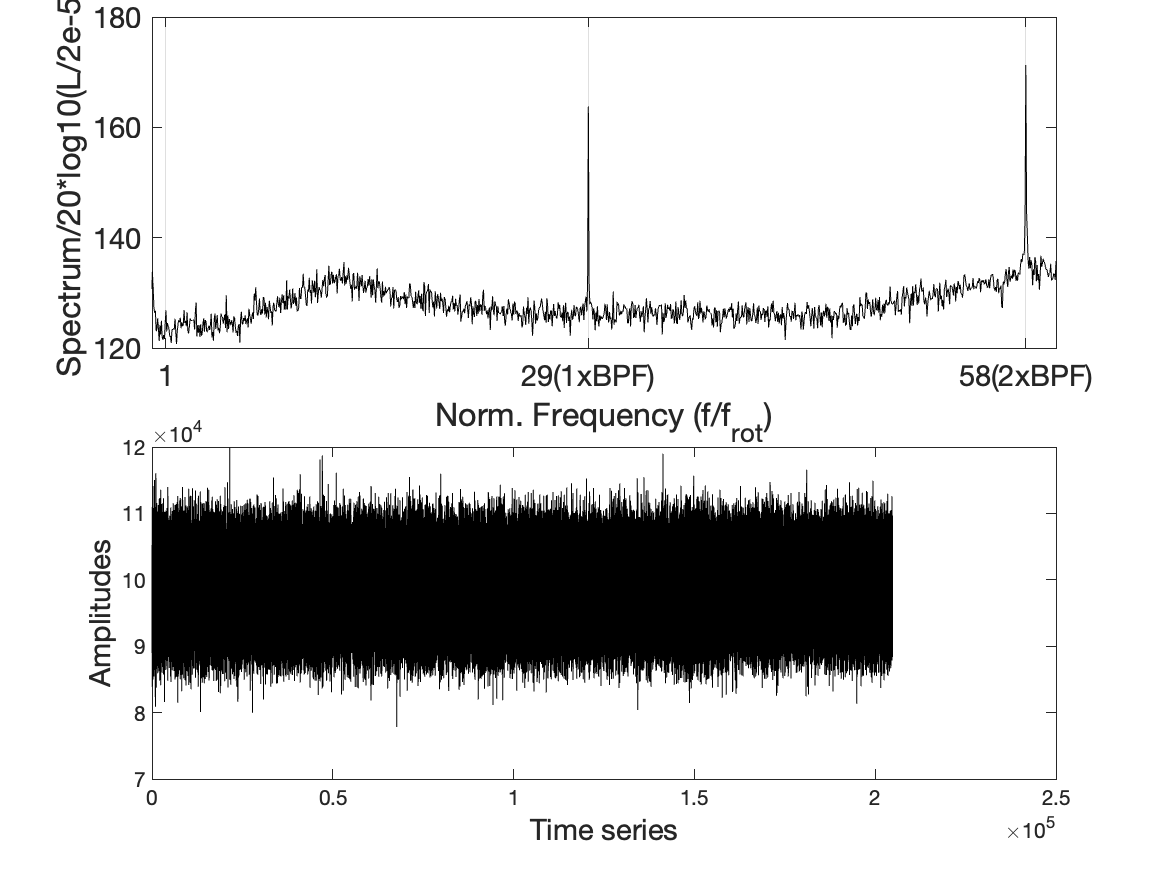
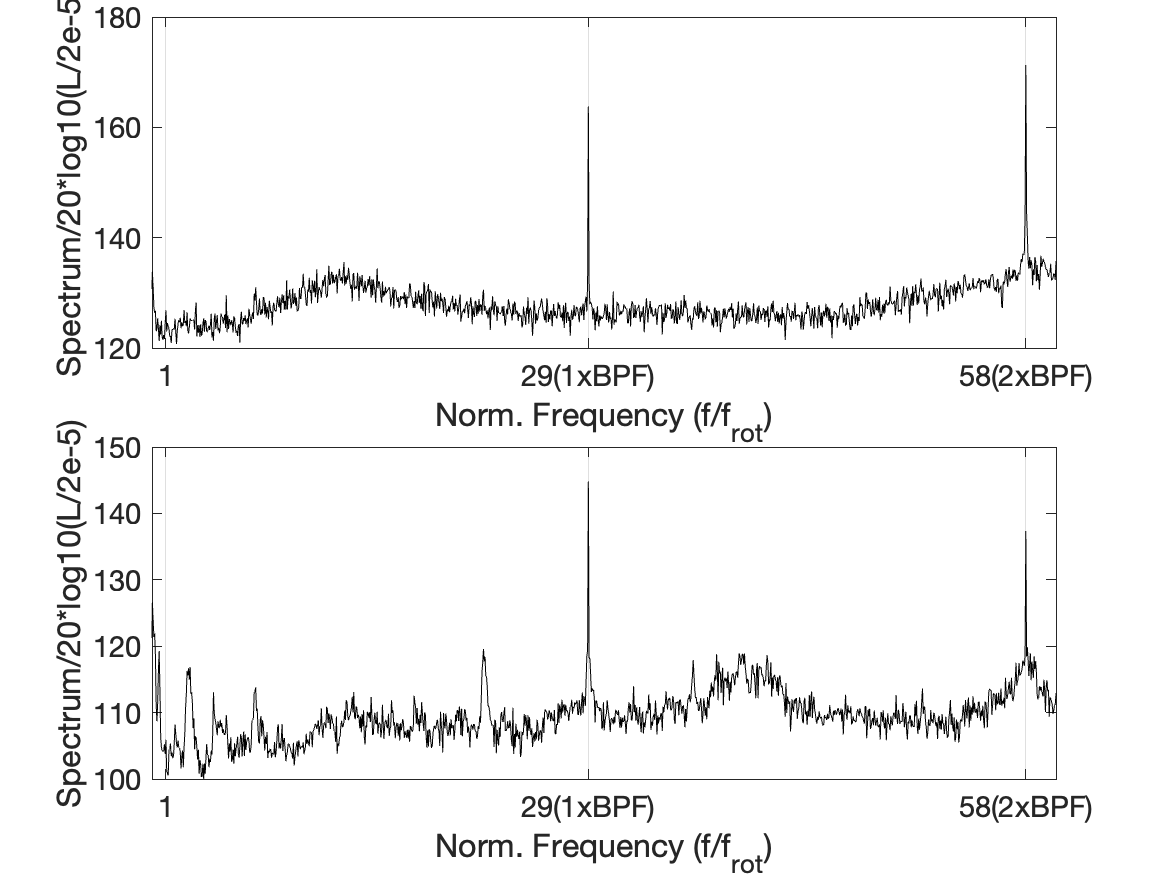
增加模态花瓣

diff --git a/example/ex01_fig5/叶顶流场动画结果输出-09-Mar-2021/ex01_fig5.m b/example/ex01_fig5/叶顶流场动画结果输出-09-Mar-2021/ex01_fig5.m
@@ -15,15 +15,15 @@ output='叶顶流场动画结果输出';
 DPLA=0; 
 DPLA_Scale= 0; 
 
+%% io接口
 % DMD 模态数
 n_mode =30;
-%% io接口
 % 导入函数路径
 addpath(genpath('/Users/wjq/Documents/Github-CI/Test_Repo/src'));  
 % 导入data路径，
-%通过gui导入! [fname,location]=uigetfile({'*.mat';'*.*'},'mat参数文件读取','MultiSelect','on');%MultiSelect单选
 rotorspeed=12000;
-fname = {'Compressor2Stall-12000-94.mat'};
+%通过gui导入! [fname,location]=uigetfile({'*.mat';'*.*'},'mat参数文件读取','MultiSelect','on');%MultiSelect单选
+fname = {'Compressor2Stall-12000-48.mat'};
 location = '/Users/wjq/Documents/Github-CI/Test_Repo/data/实验8-2018-01-20/Compressor2Stall-12000';
 load([location,'/','参数说明','/','parameter.mat']); %选择文件导入数据
 disp(Note);
@@ -85,6 +85,8 @@ ylim([-1 1]);
 axis off
 saveas(fig1,[save_directory,'/','fig3-a-unitCicle','.fig'])
 
+
+
 %% figure3-b-1 DMD 相对坐标系，模态
 
 Si=diag(S);
@@ -125,7 +127,7 @@ axes3 = axes('Parent',fig3);
 hold(axes3,'on');
 plot(the_freq,freq_dB(:,object(1)),'-k')
 xlim(axes3,[15 12000]);
-ylim(axes3,[120,180]);
+ylim(axes3,[105,175]);
 xlabel({'Norm. Frequency (f/f_r_o_t)'},'FontSize',14);
 ylabel('Spectrum/20*log10(L/2e-5)' ,'FontSize',14);
 box(axes3,'on');
@@ -134,7 +136,6 @@ set(axes3,'FontSize',14,'XGrid','on','XTick',[200 5800 11600],...
     'XTickLabel',{'1','29(1xBPF)','58(2xBPF)'});
 
 
-saveas(fig2,[save_directory,'/','fig3-b2,DMD frequcy','.fig'])
 
 
 
@@ -180,11 +181,7 @@ tsignal3.surfaces.v=reshape(tsignal3_v,1,len+1+(len+2)*n,10);
 tsignal3.surfaces.solutiontime=1;
 mat2tecplot(tsignal3,[save_directory,'/','union.plt']);
 
-tsignal3.surfaces.x
-tsignal3.surfaces.z
-
-
-%% 
+%%
 %# some random data
 K = 3;
 N = len;
@@ -194,16 +191,20 @@ data = zeros(K,N);
 % data(3,:) = 0.2*randn(1,N) + 3;
 center = [0 0];                        %# center (shift)
 
-data(1,:)=normalize(sum(reshape(Phi(:,n_mode(1)),len,10),2));
-data(2,:)=normalize(sum(reshape(Phi(:,n_mode(2)),len,10),2));
-data(3,:)=normalize(sum(reshape(Phi(:,n_mode(3)),len,10),2));
+M1=reshape(Phi(:,n_mode(1)),len,10);
+M2=reshape(Phi(:,n_mode(2)),len,10);
+M3=reshape(Phi(:,n_mode(3)),len,10);
+
+data(1,:)=normalize(M1(:,9));
+data(2,:)=normalize(M2(:,10));
+data(3,:)=normalize(M3(:,10));
 radius = [data data(:,1)];             %# added first to last to create closed loop
 min(radius(1,:))
 
 
-radius(1,:) = (radius(1,:)-min(radius(1,:)))/(max(radius(1,:))-min(radius(1,:)));
-radius(2,:) = (radius(2,:)-min(radius(2,:)))/(max(radius(2,:))-min(radius(2,:)));
-radius(3,:) = (radius(3,:)-min(radius(3,:)))/(max(radius(3,:))-min(radius(3,:)));
+radius(1,:) = smooth((radius(1,:)-min(radius(1,:)))/(max(radius(1,:))-min(radius(1,:))),10);
+radius(2,:) = smooth((radius(2,:)-min(radius(2,:)))/(max(radius(2,:))-min(radius(2,:))),50);
+radius(3,:) = smooth((radius(3,:)-min(radius(3,:)))/(max(radius(3,:))-min(radius(3,:))),55);
 
 figure, hold on
 
@@ -215,16 +216,7 @@ y = r*sin(theta)+center(2);
 plot(x, y, 'k:');
 
 
-%# draw mid-circles
-theta = linspace(5*pi/2, pi/2, 500)';  %# 'angles
-num = 5;                               %# number of circles
-rr = linspace(0,2,num+2);              %# radiuses
-for k=1:num
-    r = rr(k+1);
-    x = r*cos(theta)+center(1);
-    y = r*sin(theta)+center(2);
-    plot(x, y, 'k:');
-end
+
 
 %# draw labels
 theta = linspace(5*pi/2, pi/2, N+1)';    %# 'angles
@@ -241,12 +233,15 @@ theta = linspace(5*pi/2, pi/2, N+1);
 x = bsxfun(@times, radius, cos(theta)+center(1))';
 y = bsxfun(@times, radius, sin(theta)+center(2))';
 h = zeros(1,K);
-clr = hsv(K);
-for k=1:K
-    h(k) = plot(x(:,k), y(:,k), '.-', 'Color', clr(k,:), 'LineWidth', 2);
-end
+clr = parula(K);
+% 
+     h(1) = plot(x(:,1), y(:,1), '.-', 'Color', clr(1,:), 'LineWidth', 2);
+     h(2) = plot(x(:,2), y(:,2), '.-', 'Color', clr(2,:), 'LineWidth', 2);
+     h(3) = plot(x(:,3), y(:,3), '.-', 'Color', clr(3,:), 'LineWidth', 2);
+
+
 
 %# legend and fix axes
-%legend(h, {'M1' 'M2' 'M3'}, 'location', 'SouthOutside', 'orientation','horizontal')
+legend(h, {'M1' 'M2' 'M3'}, 'location', 'SouthOutside', 'orientation','horizontal')
 hold off
 axis equal, axis([-1 1 -1 1] * r), axis off

diff --git a/test/template/circleplot.m b/test/template/circleplot.m
@@ -1,0 +1,66 @@
+%# some random data
+K = 3;
+N = len;
+data = zeros(K,N);
+% data(1,:) = 0.2*randn(1,N) + 1;
+% data(2,:) = 0.2*randn(1,N) + 2;
+% data(3,:) = 0.2*randn(1,N) + 3;
+center = [0 0];                        %# center (shift)
+
+data(1,:)=normalize(sum(reshape(Phi(:,n_mode(1)),len,10),2));
+data(2,:)=normalize(sum(reshape(Phi(:,n_mode(2)),len,10),2));
+data(3,:)=normalize(sum(reshape(Phi(:,n_mode(3)),len,10),2));
+radius = [data data(:,1)];             %# added first to last to create closed loop
+min(radius(1,:))
+
+
+radius(1,:) = (radius(1,:)-min(radius(1,:)))/(max(radius(1,:))-min(radius(1,:)));
+radius(2,:) = (radius(2,:)-min(radius(2,:)))/(max(radius(2,:))-min(radius(2,:)));
+radius(3,:) = (radius(3,:)-min(radius(3,:)))/(max(radius(3,:))-min(radius(3,:)));
+radius=radius/scale;
+
+figure, hold on
+
+%# draw outer circle
+theta = linspace(5*pi/2, pi/2, 500)';  %# 'angles
+r = max(radius(:));                    %# radius
+x = r*cos(theta)+center(1);
+y = r*sin(theta)+center(2);
+plot(x, y, 'k:');
+
+
+%# draw mid-circles
+theta = linspace(5*pi/2, pi/2, 500)';  %# 'angles
+num = 5;                               %# number of circles
+rr = linspace(0,2,num+2);              %# radiuses
+for k=1:num
+    r = rr(k+1);
+    x = r*cos(theta)+center(1);
+    y = r*sin(theta)+center(2);
+    plot(x, y, 'k:');
+end
+
+%# draw labels
+theta = linspace(5*pi/2, pi/2, N+1)';    %# 'angles
+theta(end) = [];
+r = max(radius(:));
+r = r + r*0.2;                           %# shift to outside a bit
+x = r*cos(theta)+center(1);
+y = r*sin(theta)+center(2);
+str = strcat(num2str((1:N)','%d'));   %# 'labels
+%text(x, y, str, 'FontWeight','Bold');
+
+%# draw the actual series
+theta = linspace(5*pi/2, pi/2, N+1);
+x = bsxfun(@times, radius, cos(theta)+center(1))';
+y = bsxfun(@times, radius, sin(theta)+center(2))';
+h = zeros(1,K);
+clr = hsv(K);
+for k=1:K
+    h(k) = plot(x(:,k), y(:,k), '.-', 'Color', clr(k,:), 'LineWidth', 2);
+end
+
+%# legend and fix axes
+%legend(h, {'M1' 'M2' 'M3'}, 'location', 'SouthOutside', 'orientation','horizontal')
+hold off
+axis equal, axis([-1 1 -1 1] * r), axis off

diff --git a/example/ex02_featureExtract/特征值结果批量输出-09-Mar-2021/ex02_featureExtract.m b/example/ex02_featureExtract/特征值结果批量输出-09-Mar-2021/ex02_featureExtract.m
@@ -16,7 +16,7 @@ close all
 output='特征值结果批量输出';
 %% 参数配置
 rotorspeed=12000;
-number=1:57;
+number=57;
 samplePoint=600;
 
 %% io接口
@@ -24,7 +24,7 @@ samplePoint=600;
 addpath(genpath('/Users/wjq/Documents/Github-CI/Test_Repo/src'));  
 % 导入data路径，
 %通过gui导入![fname,location]=uigetfile({'*.mat';'*.*'},'mat参数文件读取','MultiSelect','on');%MultiSelect单选
-for k=number
+for k=1:number
 fname{k} = ['Compressor2Stall-12000-',num2str(k),'-12000.mat'];
 end
 location = '/Users/wjq/Documents/Github-CI/Test_Repo/data/试验18-2019-11-12-憋压/12000/';
@@ -62,18 +62,32 @@ Data=V2Pa_Universal(Data,kulite_transform_ab);
 % 读取数据，0，1，2，3。。。
 % 首先读取data0，然后对其进行600个点切分，多余出来的拼接到下一个数据data2里面，直到最后一组
 % 切分完以后立刻计算特征，features_diff_extract
+%% III.研究相比B1和R1，声传感器信号的敏感程度
+% 由于信号反复错杂，可以通过HMM框架，自己和自己的过去对比，这样有个标杆，去训练一个特定的指标。
+% 用到HMM模型，测点为：B，R1，R-6, 声学测点1个
+
+
 tic
-disp([char(fname(i_file)),...])
 [features,leftData]=features_diff_extract(Data,Object,samplePoint,leftData,features);%11个时域特征  %feature=[PV,PPV,AP,RP,RMS,SF,IF,CF,CLF,SK,KU];
+disp([char(fname(i_file)),' ... OK!'])
 toc
 
-%save(fullfile(opath,'feature_round_4_P.mat'),'feature_round')
 
 
 end
 
 
+save(fullfile(save_directory,'feature_600_12000.mat'),'features')
 
 
 
+% 
+figure
+for kk=1:29
+    for k=1:length(features)
+        feature_1(k)=features{k}(kk,1);
+    end
+    plot(normalize(smooth(feature_1,100)))
+    hold on
+end
 

diff --git a/example/ex02_fftplot/fft-B1结果批量输出-08-Mar-2021/ex02_fftplot.m b/example/ex02_fftplot/fft-B1结果批量输出-08-Mar-2021/ex02_fftplot.m
@@ -5,8 +5,9 @@
 %！           ps接口: pltPlot_dB_universal
 %% -------   Jiaqiwang969@gmail.com  SJTU SVN             ------- %%
 % 项目2：失速检测
-% 12000rpm 和 17000 rpm
+% 12000rpm #55 和 17000 rpm #52
 % 任务1： fft批量输出结果，明白实验到整个过程，结果输出到本目录下
+% 任务2： 特征提取
 
 clc
 clear
@@ -75,15 +76,15 @@ set(axes1,'FontSize',14,'XGrid','on','XTick',[200 5800 11600],...
 axes2 = axes('Parent',fig2,...
     'Position',[0.13 0.11  0.775 0.37865]);
 hold(axes2,'on');
-plot(Data(:,object(1)),'-k')
-%xlim(axes2,[15 12000]);
+plot(the_freq,freq_dB(:,11),'-k')
+xlim(axes2,[15 12000]);
 %ylim(axes2,[120,180]);
-xlabel({'Time series'},'FontSize',14);
-ylabel('Amplitudes' ,'FontSize',14);
+xlabel({'Norm. Frequency (f/f_r_o_t)'},'FontSize',14);
+ylabel('Spectrum/20*log10(L/2e-5)' ,'FontSize',14);
 box(axes2,'on');
-% set(axes2,'XGrid','on');   
-% set(axes2,'FontSize',14,'XGrid','on','XTick',[200 5800 11600],...
-%     'XTickLabel',{'1','29(1xBPF)','58(2xBPF)'});
+set(axes2,'XGrid','on');   
+set(axes2,'FontSize',14,'XGrid','on','XTick',[200 5800 11600],...
+    'XTickLabel',{'1','29(1xBPF)','58(2xBPF)'});
 
 saveas(fig2,[save_directory,'/','pro2-frequcy',fname{i_file},'.fig'])
 saveas(fig2,[save_directory,'/','pro2-frequcy',fname{i_file},'.png'])

diff --git a/example/ex02_featureExtract.m b/example/ex02_featureExtract.m
@@ -62,10 +62,14 @@ Data=V2Pa_Universal(Data,kulite_transform_ab);
 % 读取数据，0，1，2，3。。。
 % 首先读取data0，然后对其进行600个点切分，多余出来的拼接到下一个数据data2里面，直到最后一组
 % 切分完以后立刻计算特征，features_diff_extract
+%% III.研究相比B1和R1，声传感器信号的敏感程度
+% 由于信号反复错杂，可以通过HMM框架，自己和自己的过去对比，这样有个标杆，去训练一个特定的指标。
+% 用到HMM模型，测点为：B，R1，R-6, 声学测点1个
+
+
 tic
 [features,leftData]=features_diff_extract(Data,Object,samplePoint,leftData,features);%11个时域特征  %feature=[PV,PPV,AP,RP,RMS,SF,IF,CF,CLF,SK,KU];
 disp([char(fname(i_file)),' ... OK!'])
-
 toc
 
 
@@ -77,4 +81,13 @@ save(fullfile(save_directory,'feature_600_12000.mat'),'features')
 
 
 
+% 
+figure
+for kk=1:29
+    for k=1:length(features)
+        feature_1(k)=features{k}(kk,1);
+    end
+    plot(normalize(smooth(feature_1,100)))
+    hold on
+end
 

diff --git a/example/ex02_fftplot.m b/example/ex02_fftplot.m
@@ -76,15 +76,15 @@ set(axes1,'FontSize',14,'XGrid','on','XTick',[200 5800 11600],...
 axes2 = axes('Parent',fig2,...
     'Position',[0.13 0.11  0.775 0.37865]);
 hold(axes2,'on');
-plot(Data(:,object(1)),'-k')
-%xlim(axes2,[15 12000]);
+plot(the_freq,freq_dB(:,11),'-k')
+xlim(axes2,[15 12000]);
 %ylim(axes2,[120,180]);
-xlabel({'Time series'},'FontSize',14);
-ylabel('Amplitudes' ,'FontSize',14);
+xlabel({'Norm. Frequency (f/f_r_o_t)'},'FontSize',14);
+ylabel('Spectrum/20*log10(L/2e-5)' ,'FontSize',14);
 box(axes2,'on');
-% set(axes2,'XGrid','on');   
-% set(axes2,'FontSize',14,'XGrid','on','XTick',[200 5800 11600],...
-%     'XTickLabel',{'1','29(1xBPF)','58(2xBPF)'});
+set(axes2,'XGrid','on');   
+set(axes2,'FontSize',14,'XGrid','on','XTick',[200 5800 11600],...
+    'XTickLabel',{'1','29(1xBPF)','58(2xBPF)'});
 
 saveas(fig2,[save_directory,'/','pro2-frequcy',fname{i_file},'.fig'])
 saveas(fig2,[save_directory,'/','pro2-frequcy',fname{i_file},'.png'])
